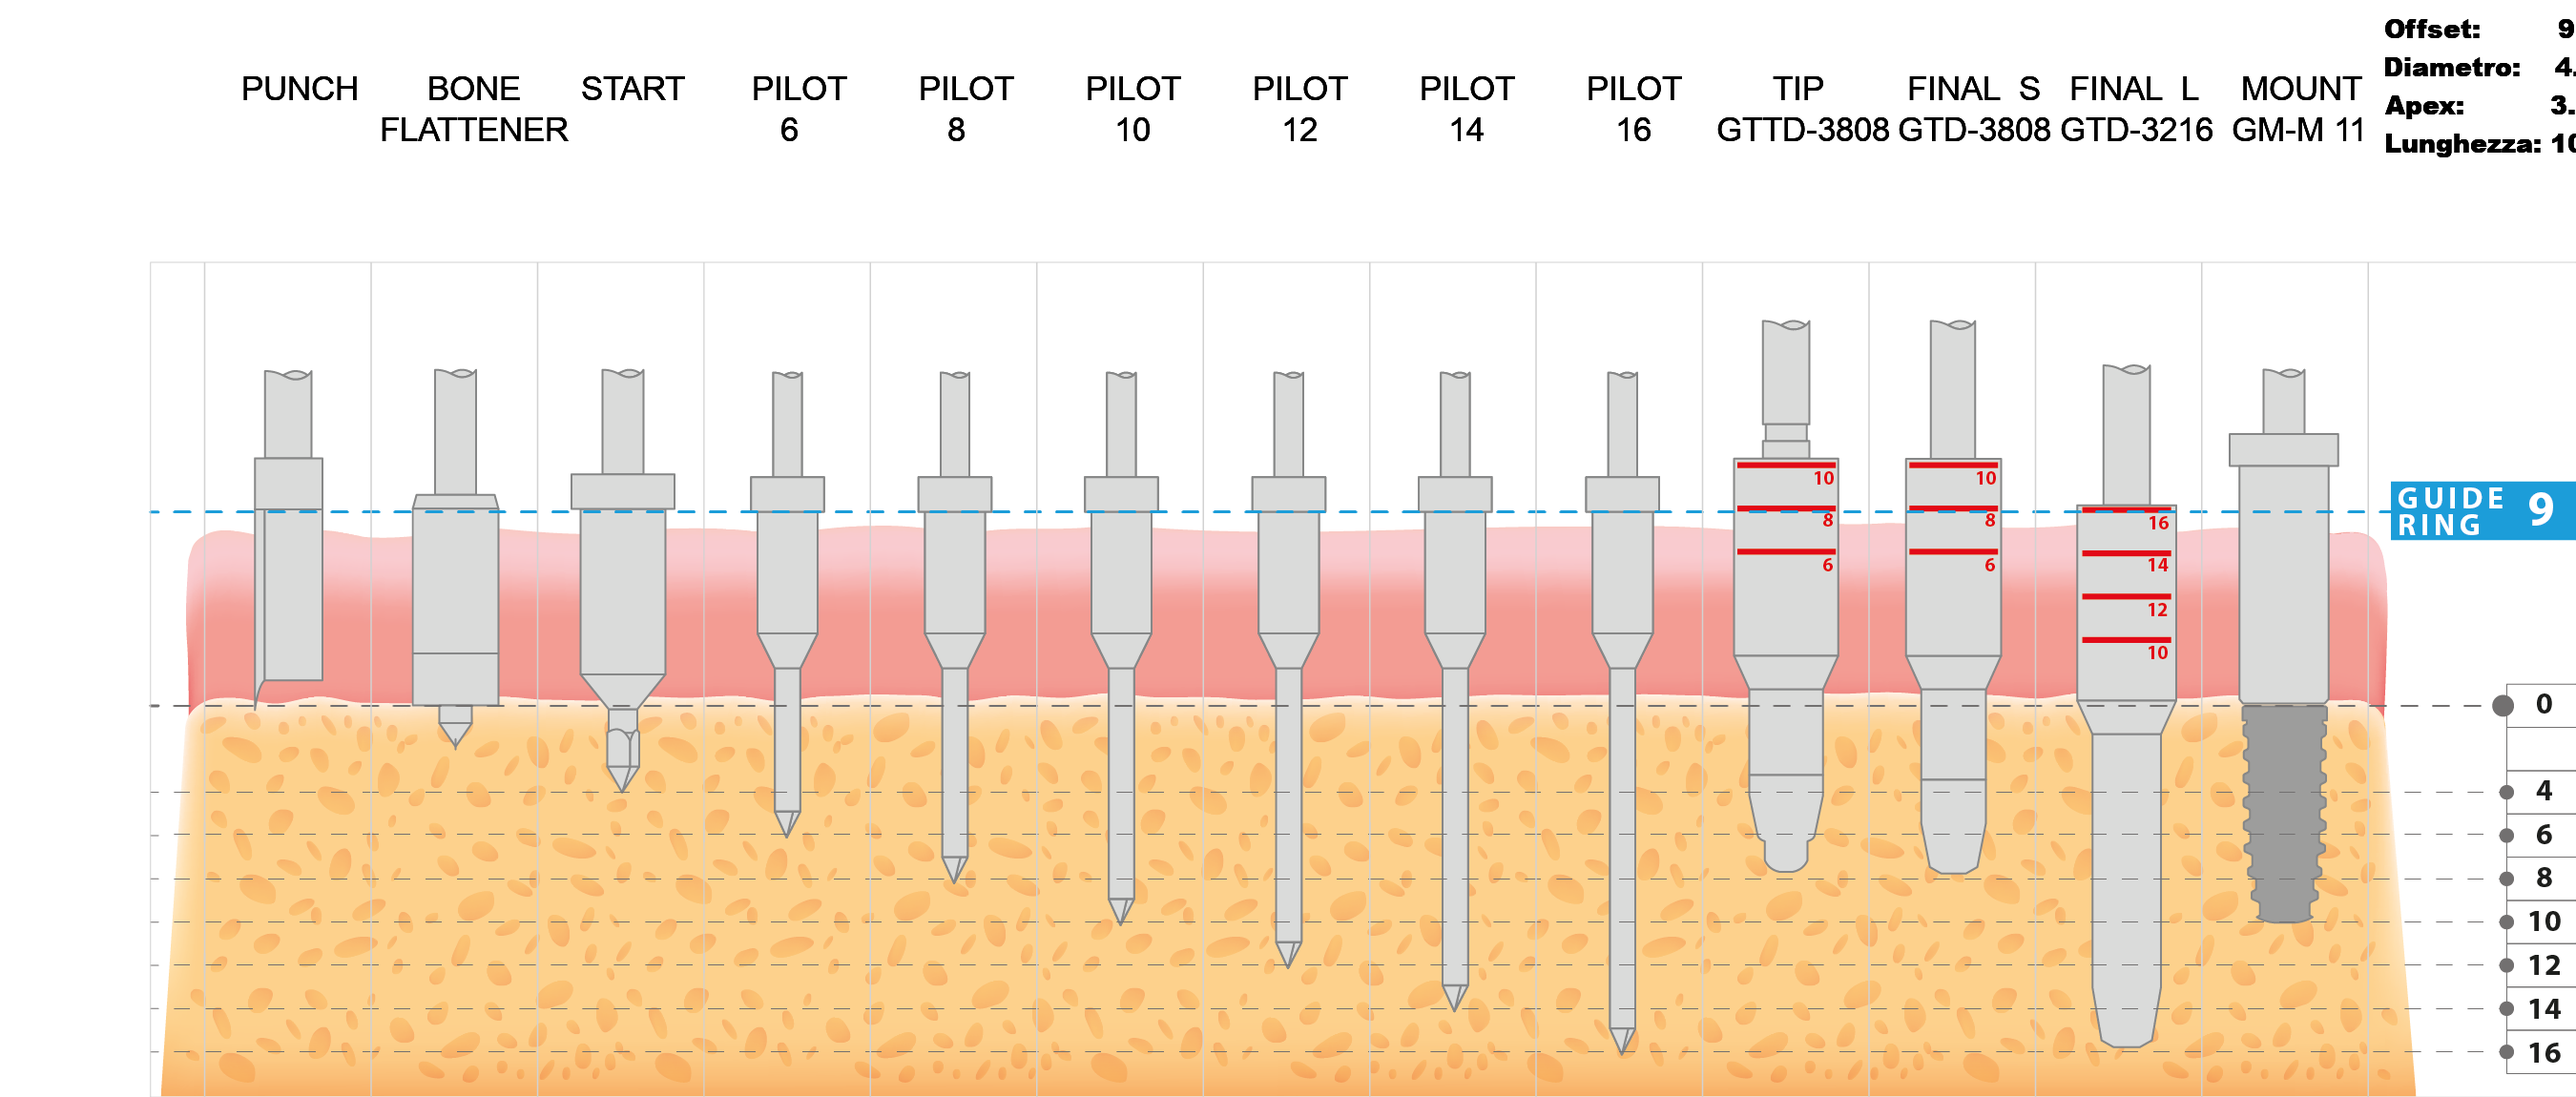
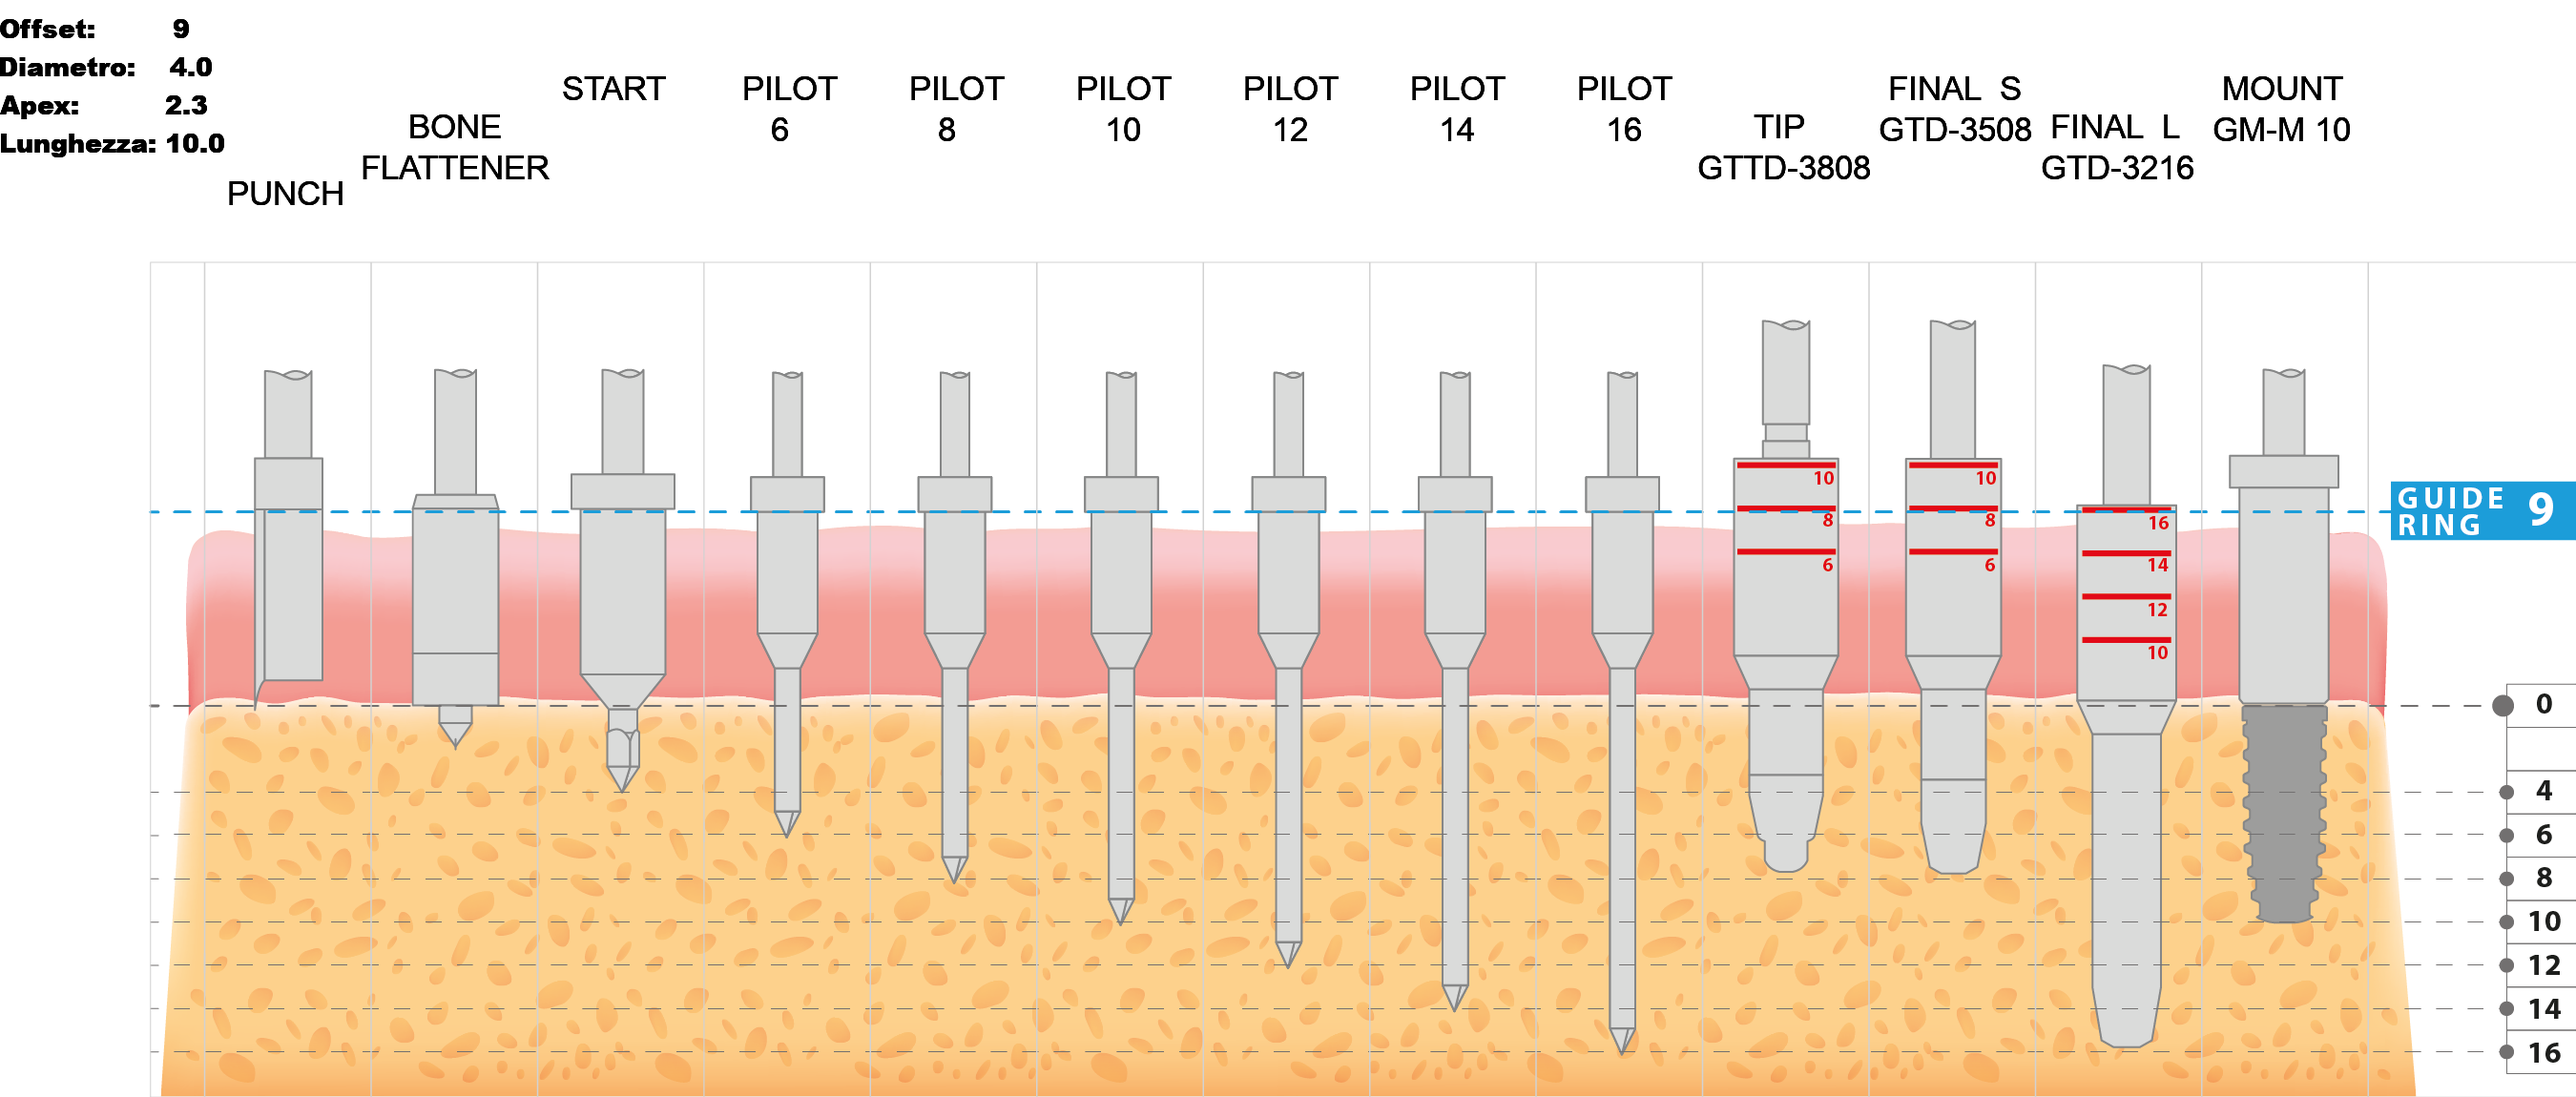
More fixes with the text position

Changed region(s): [[0.0, 0.0, 1.0, 0.1826], [0.84, 0.3957, 0.9333, 0.4261]]

diff --git a/immagine.php b/immagine.php
@@ -20,7 +20,7 @@ $apexText = ImageWorkshop::initTextLayer("Apex:          ".$_REQUEST['apex'], "i
 
 $diamText = ImageWorkshop::initTextLayer("Diametro:    ".$_REQUEST['diametro'], "img/arial_bold.ttf",20, "000000");
 
-$textGroupDesc = ImageWorkshop::initVirginLayer(200, 250, null);
+$textGroupDesc = ImageWorkshop::initVirginLayer(300, 250, null);
 
 $textGroupDesc->addLayer(1, $offsetText, 0, 20);
 $textGroupDesc->addLayer(1, $diamText, 0, 60);
@@ -42,7 +42,7 @@ foreach($pilots as $p){
 
 
     $pilotText = ImageWorkshop::initTextLayer("PILOT\n   ".$p, "img/arial.ttf",26, "000000");
-    $textGroup->addLayer($layerLevel++, $pilotText, $positionX + 790);
+    $textGroup->addLayer($layerLevel++, $pilotText, $positionX + 780);
 
     $positionX += 175;
 }
@@ -72,7 +72,7 @@ if($mountToggle == 1){
 
     $layerMount = ImageWorkshop::initFromPath($mountPath);
     $mountText = ImageWorkshop::initTextLayer($mText, "img/arial.ttf",26, "000000");
-    $textGroup->addLayer(10, $mountText, 2340);
+    $textGroup->addLayer(10, $mountText, 2320);
 }
 
 switch((int)$offset){
@@ -143,7 +143,7 @@ if(isset($_REQUEST['tip'])) {
 
     $tText = "      TIP\n".strtoupper($tip);
     $tipText = ImageWorkshop::initTextLayer($tText, "img/arial.ttf",26, "000000");
-    $textGroup->addLayer(10, $tipText, 1800);
+    $textGroup->addLayer(10, $tipText, 1780, 40);
 }
 
 if(isset($_REQUEST['final10'])) {
@@ -163,7 +163,7 @@ if(isset($_REQUEST['final10'])) {
 
     $fsText = " FINAL  S\n".strtoupper($finalS);
     $finalSText = ImageWorkshop::initTextLayer($fsText, "img/arial.ttf",26, "000000");
-    $textGroup->addLayer(10, $finalSText, 1990);
+    $textGroup->addLayer(10, $finalSText, 1970);
 }
 
 if(isset($_REQUEST['final16'])) {
@@ -186,7 +186,7 @@ if(isset($_REQUEST['final16'])) {
 
     $flText = " FINAL  L\n".strtoupper($finalL);
     $finalLText = ImageWorkshop::initTextLayer($flText, "img/arial.ttf",26, "000000");
-    $textGroup->addLayer(10, $finalLText, 2160);
+    $textGroup->addLayer(10, $finalLText, 2140, 40);
 }
 
 
@@ -201,21 +201,21 @@ if(isset($_REQUEST['tissue']) && $_REQUEST['tissue'] == 1) {
     $tissueLayer = ImageWorkshop::initFromPath("img/PUNCH@4x.png");
     $document->addLayer(6, $tissueLayer, 110 + $offsetXGen, $tissueY + $offsetYGen);
     $punchText = ImageWorkshop::initTextLayer("PUNCH", "img/arial.ttf",26, "000000");
-    $textGroup->addLayer(10, $punchText, 255);
+    $textGroup->addLayer(10, $punchText, 240, 120);
 }
 
 if(isset($_REQUEST['bone']) && $_REQUEST['bone'] == 1) {
     $boneLayer = ImageWorkshop::initFromPath("img/BONE_FLATTENER@4x.png");
     $document->addLayer(7, $boneLayer, 275 + $offsetXGen, $boneY + $offsetYGen);
     $boneText = ImageWorkshop::initTextLayer("     BONE\nFLATTENER", "img/arial.ttf",26, "000000");
-    $textGroup->addLayer(10, $boneText, 400);
+    $textGroup->addLayer(10, $boneText, 380, 40);
 }
 
 if(isset($_REQUEST['start']) && $_REQUEST['start'] == 1) {
     $startLayer = ImageWorkshop::initFromPath("img/START@4x.png");
     $document->addLayer(7, $startLayer, 442 + $offsetXGen, $startY + $offsetYGen);
     $startText = ImageWorkshop::initTextLayer("START", "img/arial.ttf",26, "000000");
-    $textGroup->addLayer(10, $startText, 610);
+    $textGroup->addLayer(10, $startText, 590);
 }
 
 if(isset($_REQUEST['tip']))
@@ -230,7 +230,7 @@ if(isset($_REQUEST['final16']))
 $document->addLayer(11, $layerOffset, 0 + $offsetXGen, $offsetY + $offsetYGen);
 $document->addLayer(20, $layerBase, $offsetXGen, $offsetYGen);
 $document->addLayer(30, $textGroup, 0, 80);
-$document->addLayer(30, $textGroupDesc, 0, 0, "RT");
+$document->addLayer(40, $textGroupDesc, 0, 0, "LT");
 
 $image = $document->getResult("ffffff");
 
@@ -247,7 +247,7 @@ $document->save($dirPath, $filename, $createFolders, $backgroundColor, $imageQua
 //header('Content-type: image/jpeg');
 
 //imagejpeg($image, null, 95); // We choose to show a JPEG with a quality of 95%
-header("location: download.php");
+//header("location: download.php");
 
 
 
